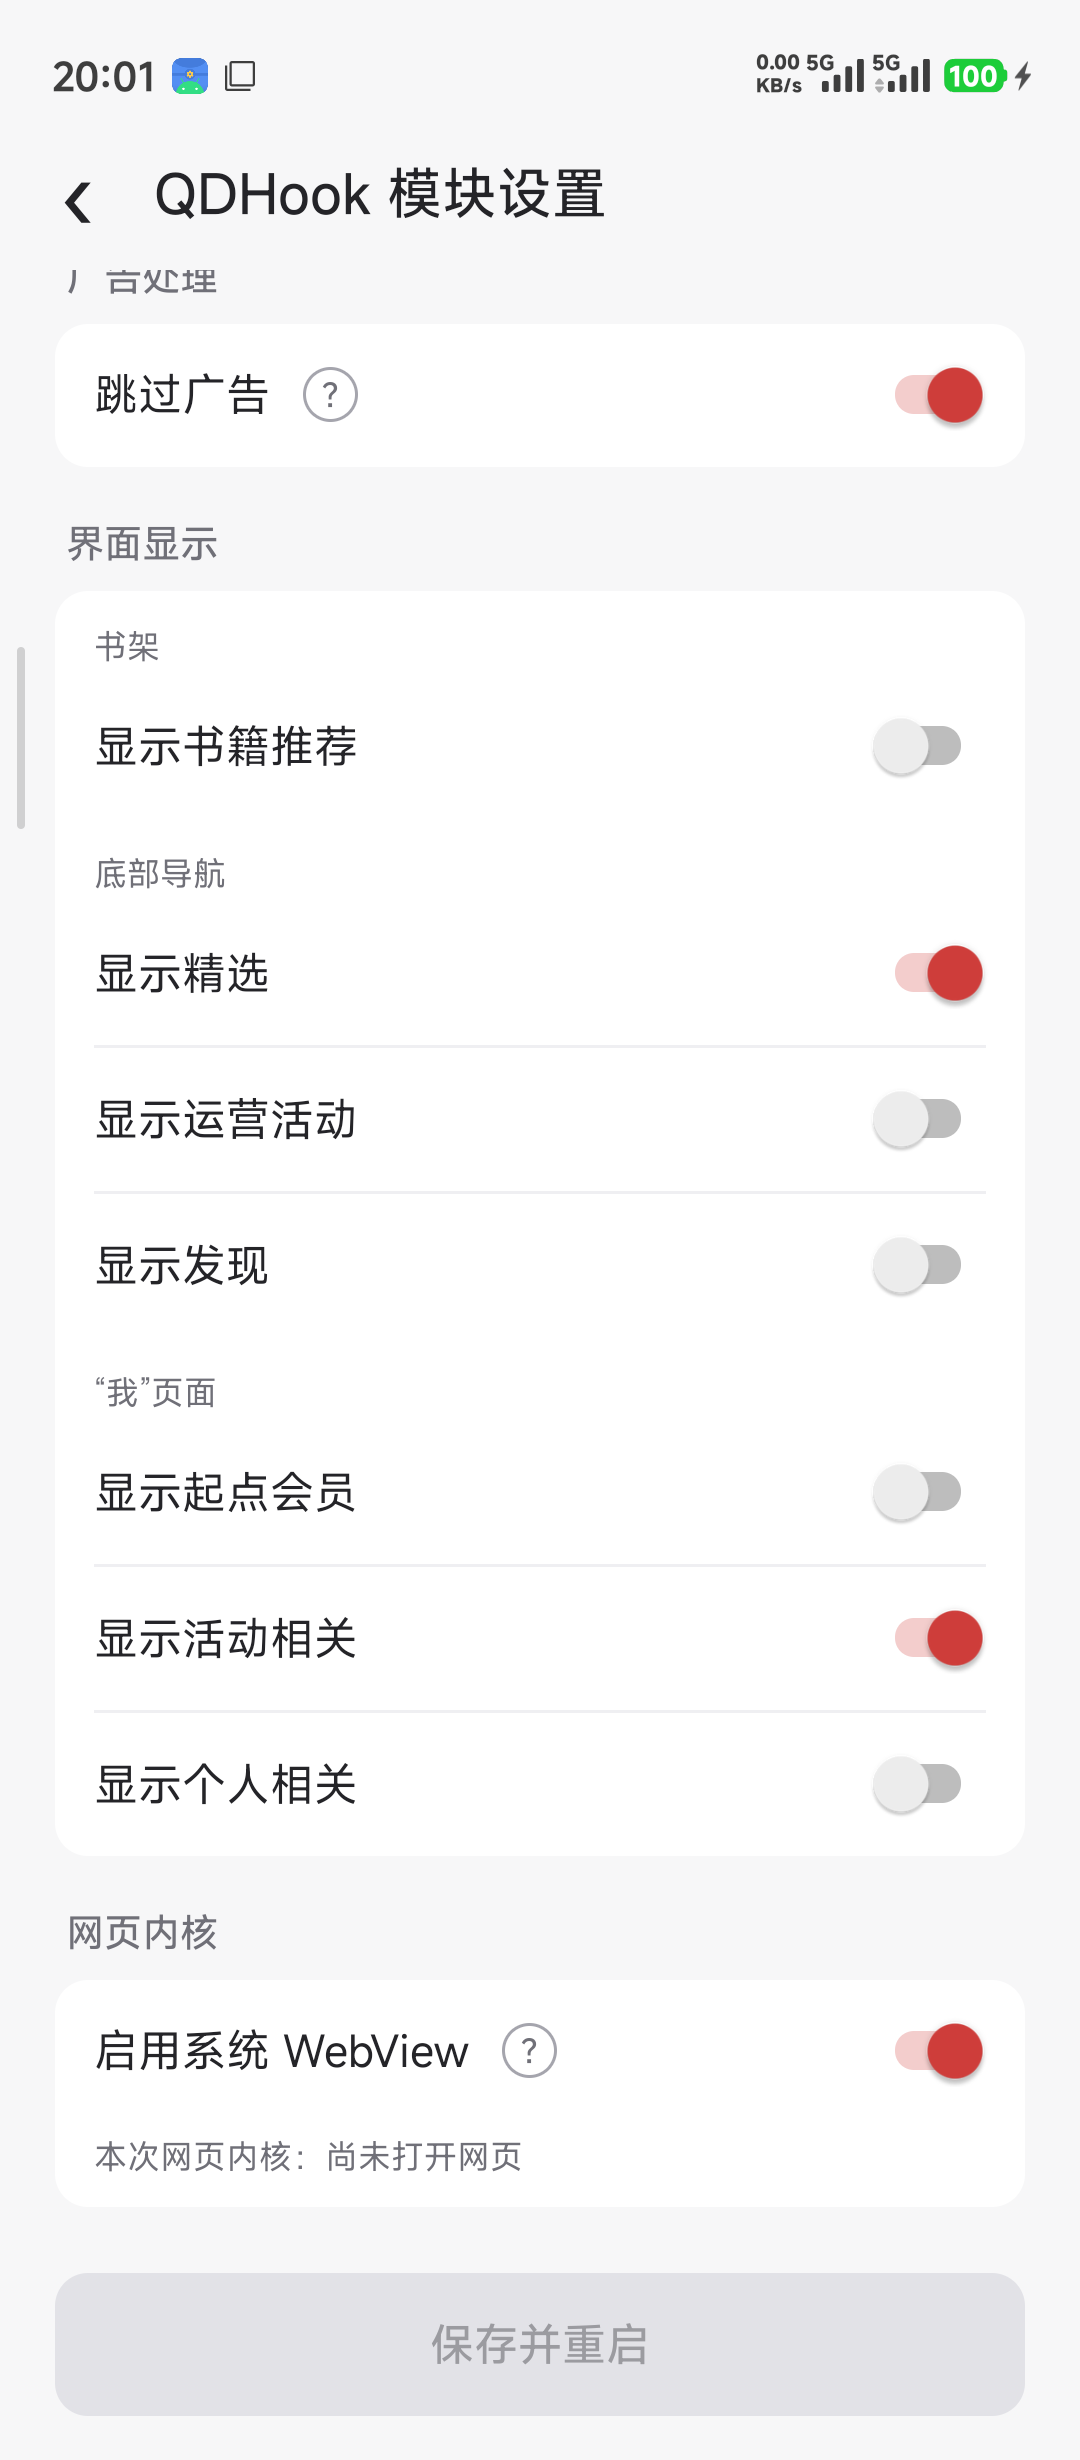
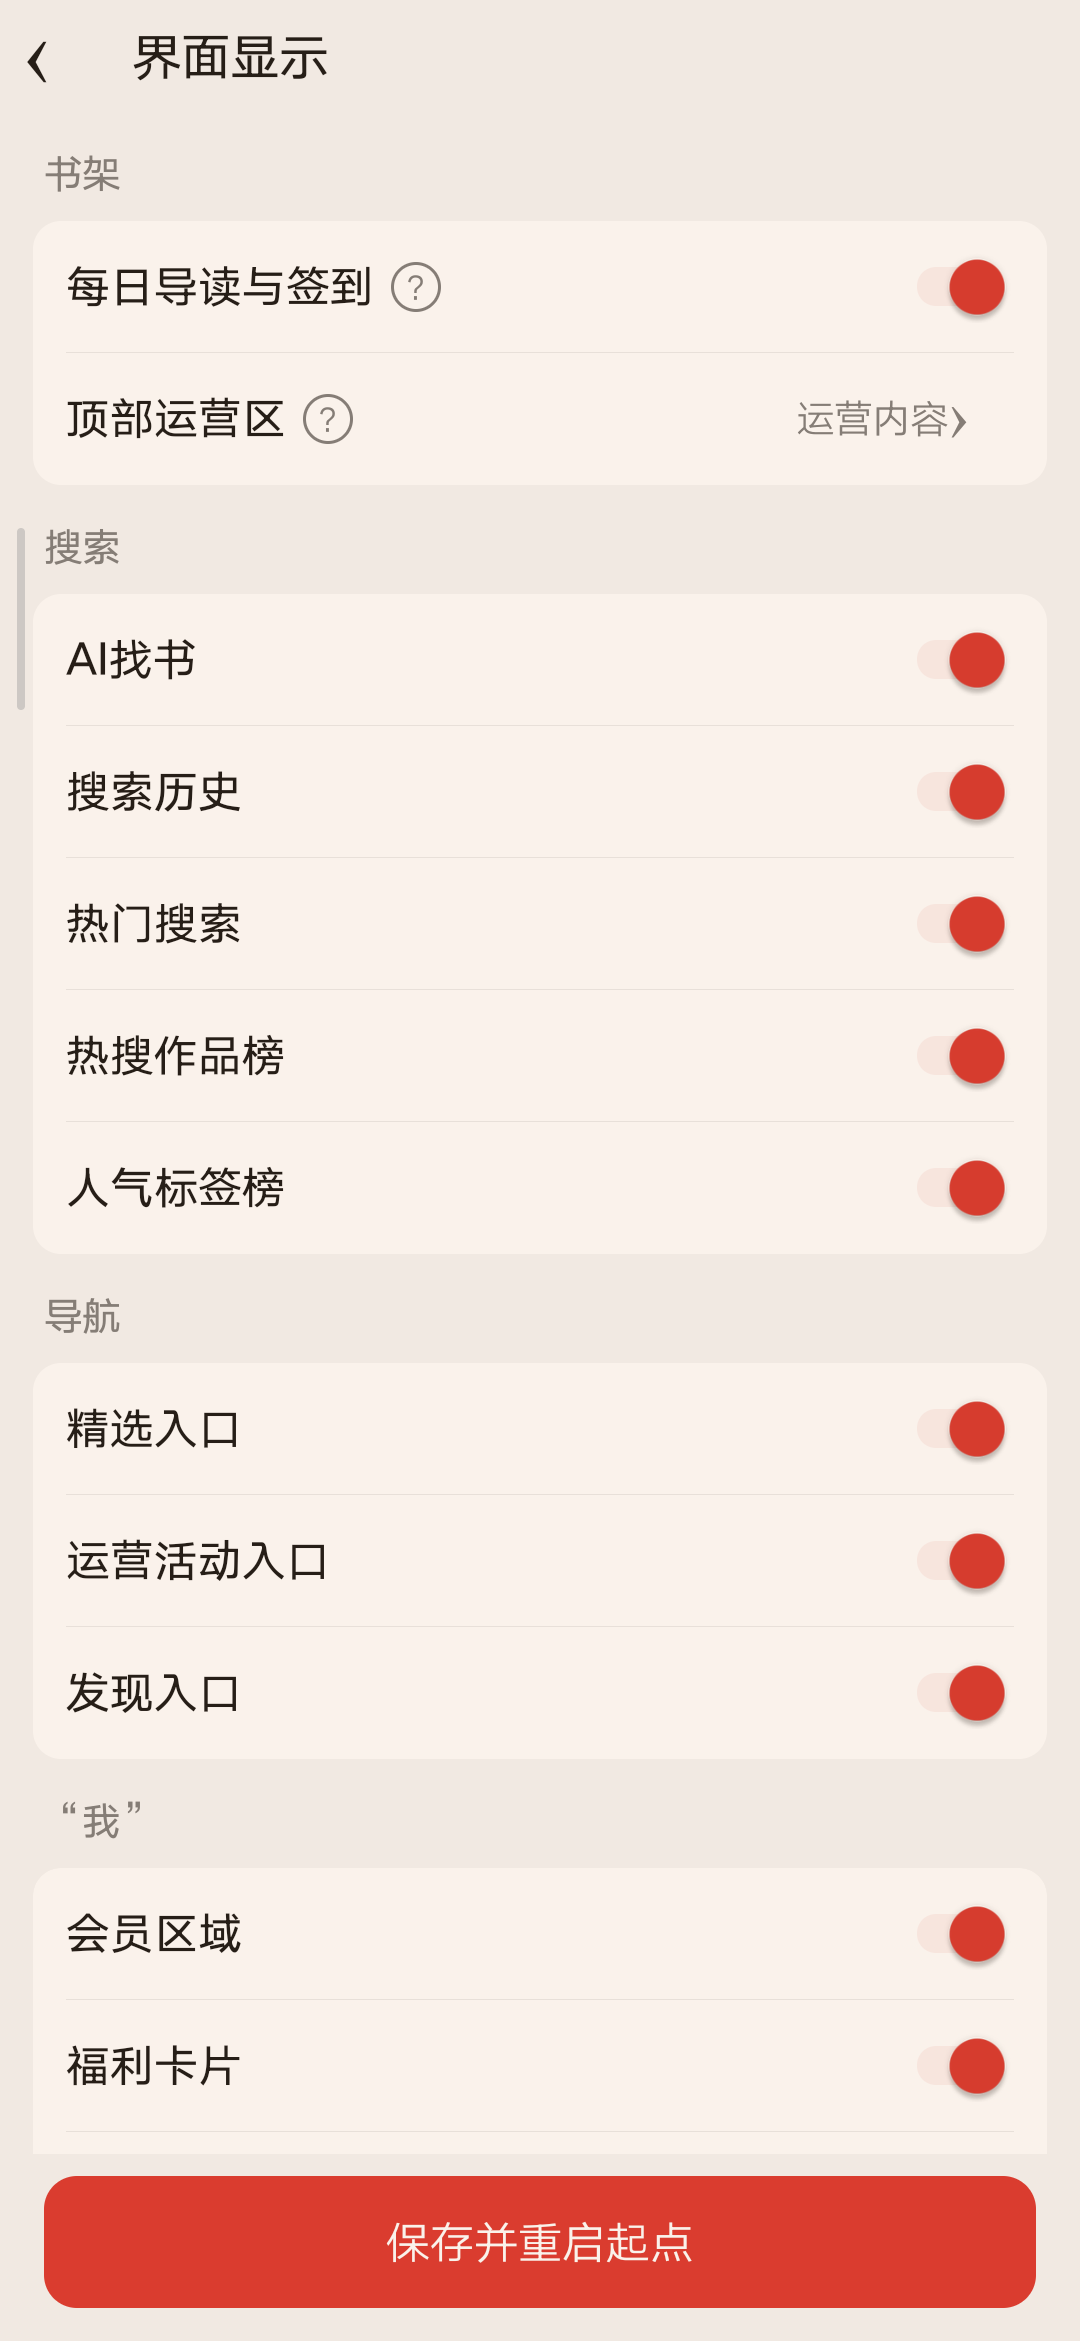
docs: 更新 CHANGELOG，添加新功能和修复说明

diff --git a/CHANGELOG.md b/CHANGELOG.md
@@ -4,6 +4,25 @@ APK 下载及附件以 [Releases](https://github.com/Xposed-Modules-Repo/tech.so
 
 需要 arm64-v8a 设备及支持 **LibXposed API 102** 的 LSPosed。安装或升级后，请确认模块已启用且作用域勾选起点读书；修改模块设置后，点击 **保存并重启** 生效。
 
+## 26.10.8 · 2026-10-17
+
+版本代码：`261040`。适配起点读书 **7.9.469 / 7.9.470 / 7.9.472 / 7.9.478 / 7.9.480**。
+
+### 新增与优化
+
+- 搜索页新增 **AI找书、搜索历史、热门搜索、热搜作品榜、人气标签榜** 五个独立显示开关，默认全部显示。单独显示一个榜单时自动铺满宽度，隐藏搜索历史不会删除记录。
+- 模块设置入口改为 **界面显示**，副标题为“书架、搜索、导航、“我””；二级页按对应区域分组，与首页共用更改和保存状态。
+- 优化模块设置的字重、行高、间距及帮助图标，跟随起点字体、皮肤和护眼配色；移除“功能卡片”后的问号。
+
+### 修复
+
+- 补充个人主页、作者主页、精选、福利中心、装扮中心，以及账户、月票、卡券、会员、等级、徽章、称号、地址和信息清单页面的 App 字体适配。
+- 修复粉丝圈角色卡、专题卡切换后的字体回退。客服页面暂不适配。
+
+设置入口：**设置 → QDHook 模块设置 → 界面显示 → 搜索**，更改后点击 **保存并重启起点**。
+
+本次正式包完成完整主机测试及五版静态契约检查，未重新进行真机验收；相关测试版已在 7.9.480 / Android 15 ARM64 验证字体、设置及搜索显示功能，其他四版未做真机回归。
+
 ## [26.10.7](https://github.com/Xposed-Modules-Repo/tech.soyoren.qdhook/releases/tag/261029-26.10.7) · 2026-10-15
 
 版本代码：`261029`。适配起点读书 **7.9.469 / 7.9.470 / 7.9.472 / 7.9.478 / 7.9.480**。

diff --git a/README.md b/README.md
@@ -32,8 +32,8 @@
 | --- | --- |
 | Android | 15（SDK 35） |
 | 架构 | arm64-v8a |
-| KernelSU | 3.3.0 |
-| Zygisk Next | 1.5.1 |
+| KernelSU | 3.3.1 |
+| Zygisk Next | 1.5.2 |
 | LSPosed | 2.2.1（7912）|
 
 ## 使用方式
